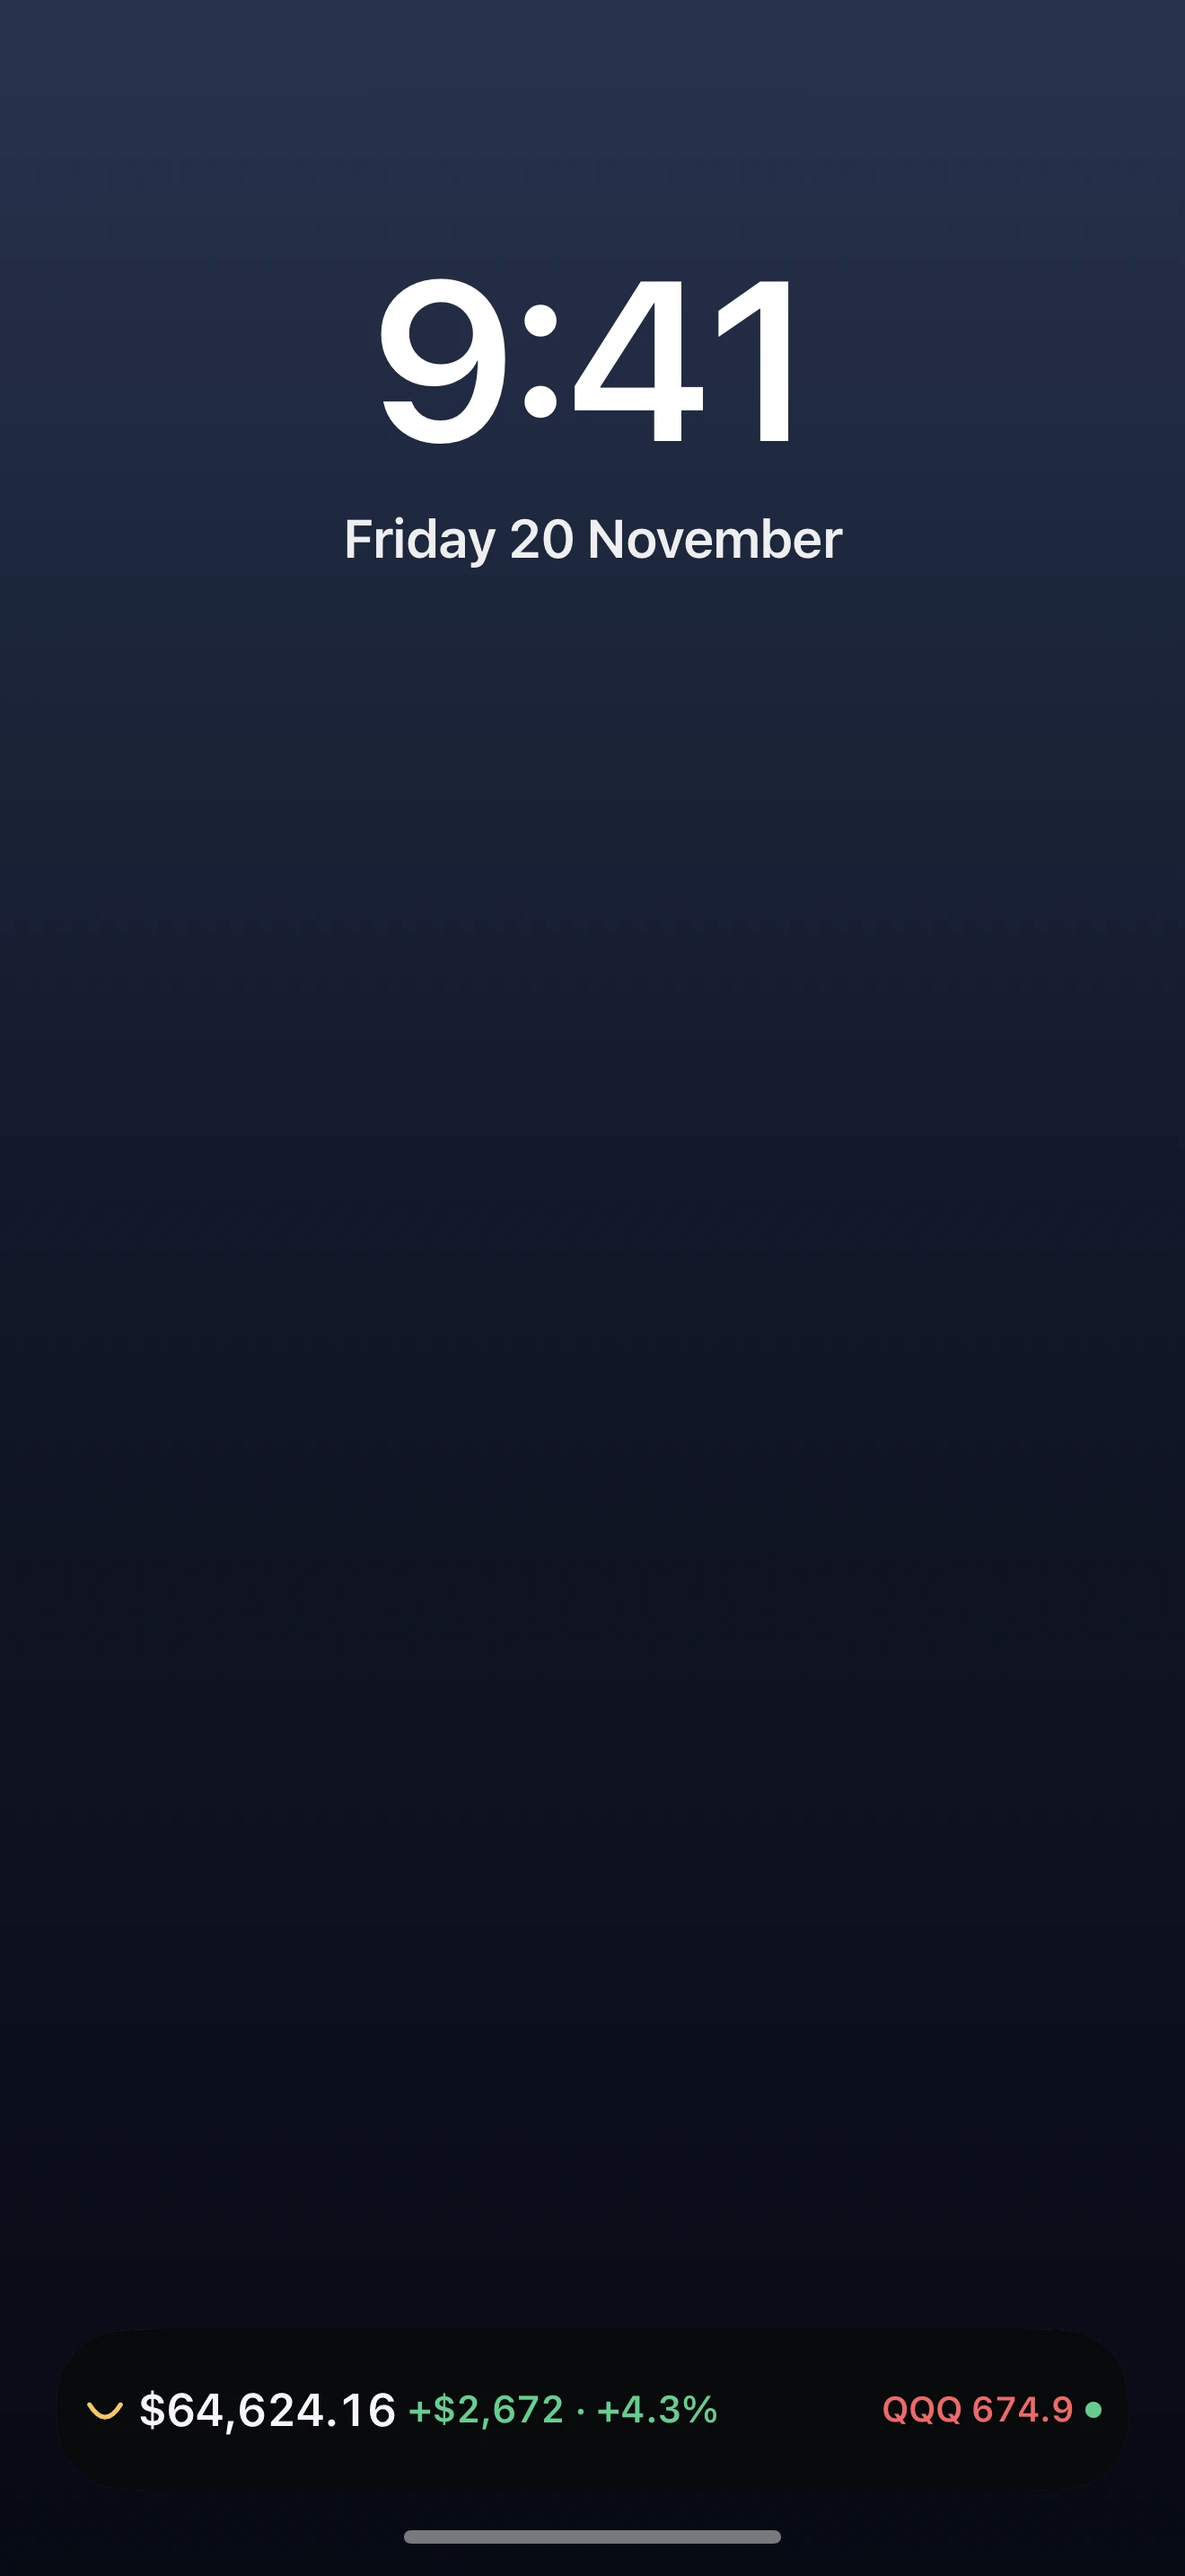
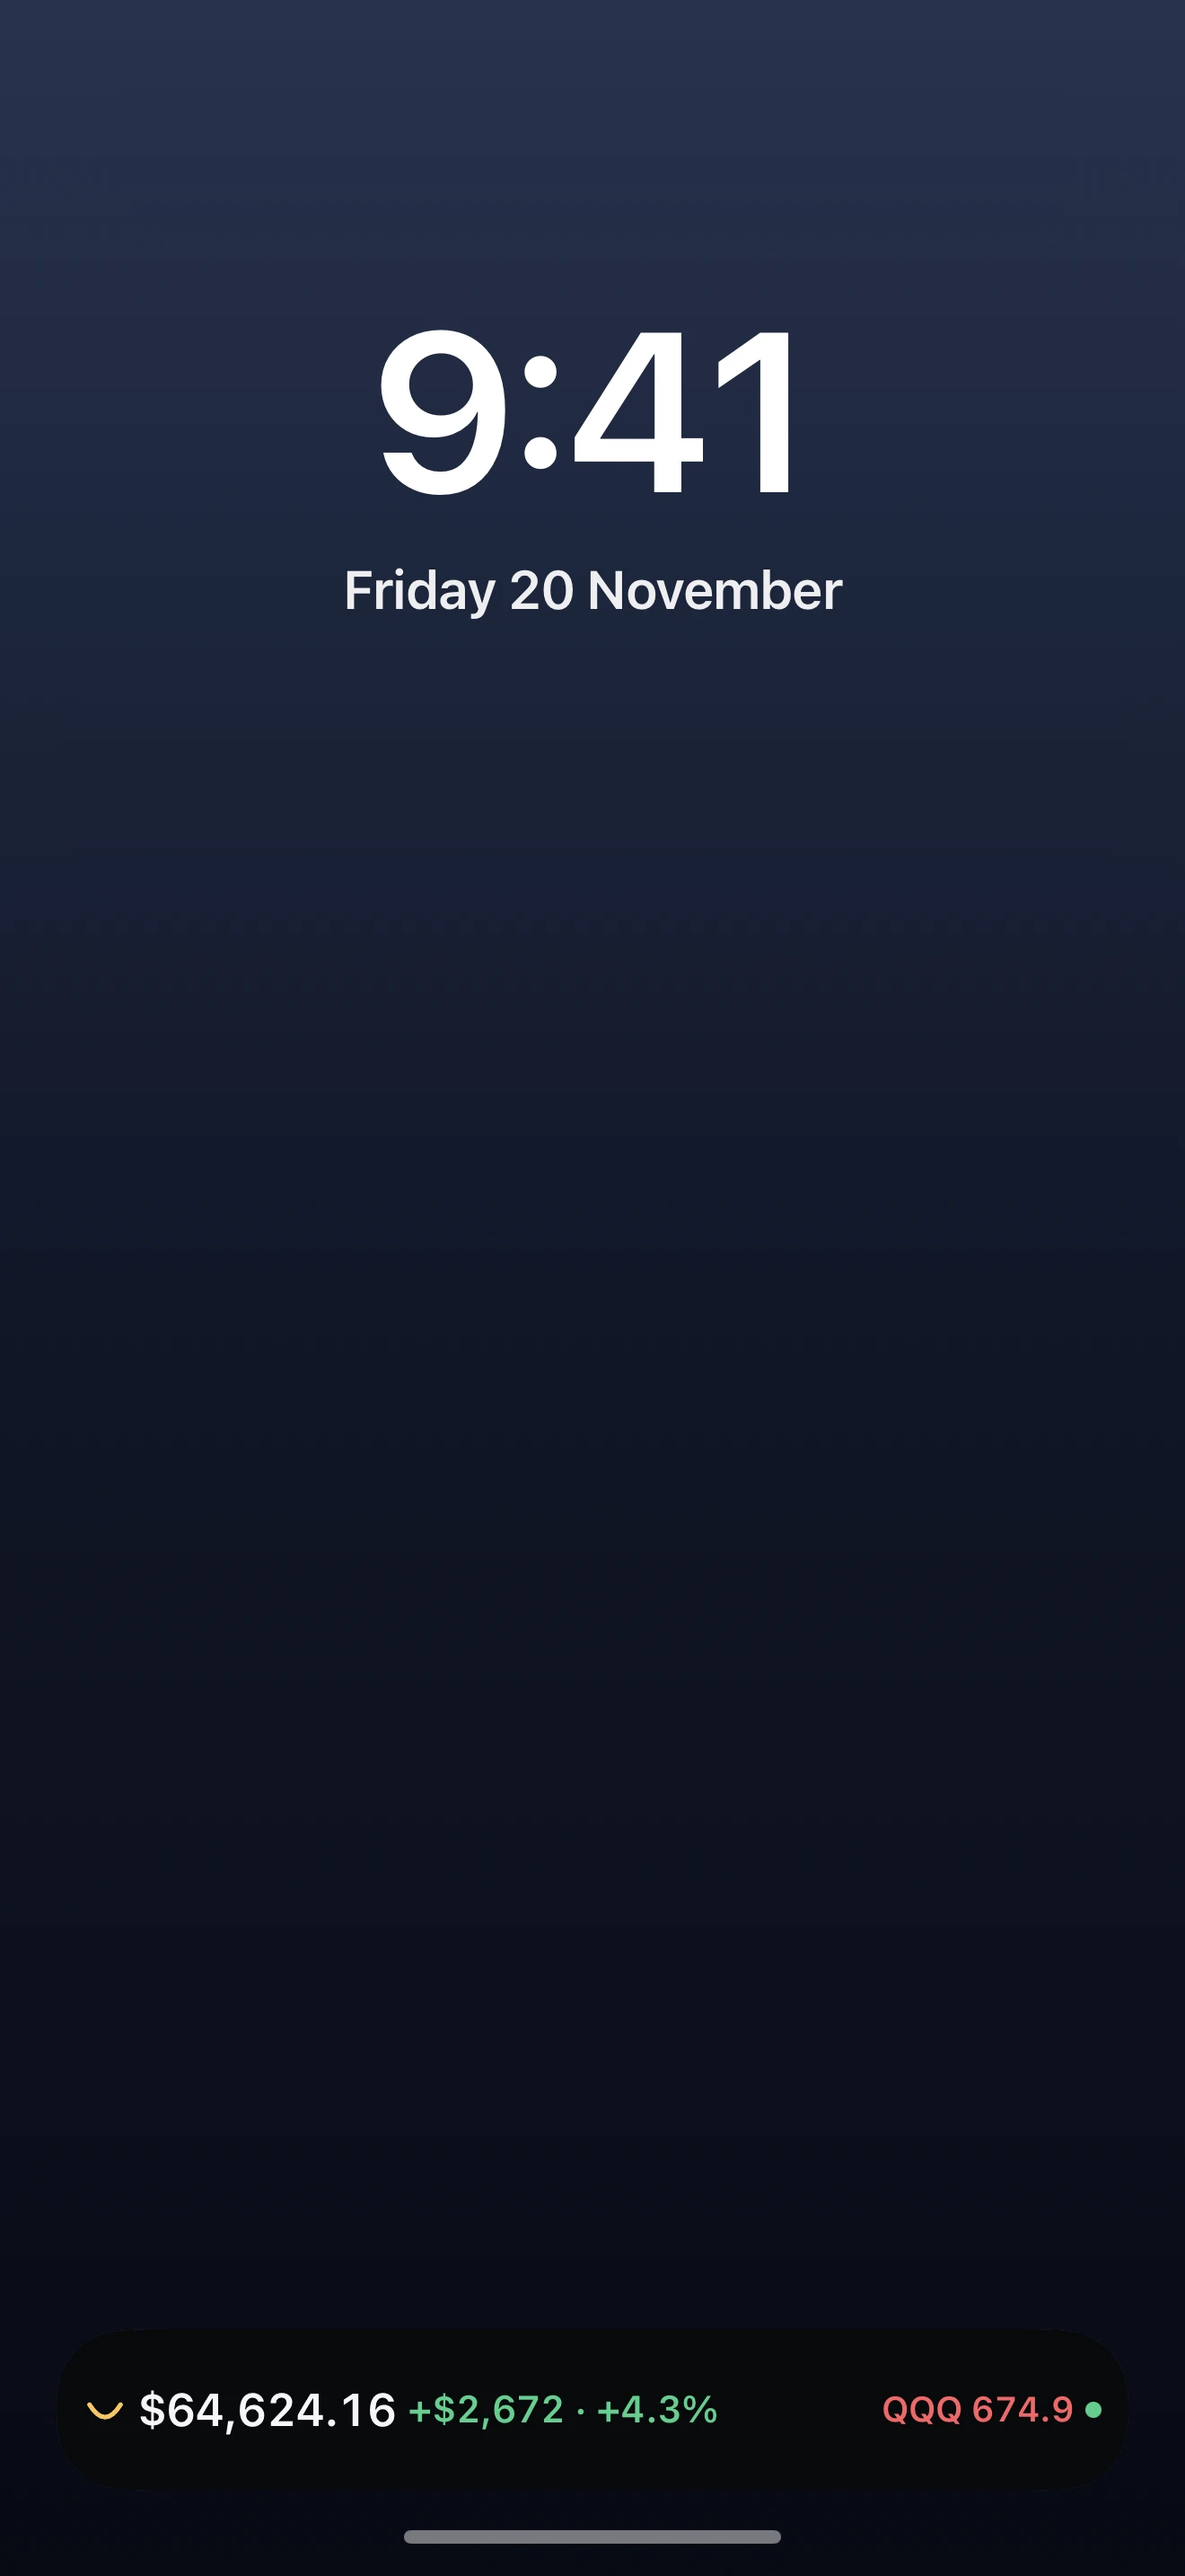
[skip ci] Regenerate 08-lock-compact webp, hero stack polish, §06 capture

Changed region(s): [[0.2795, 0.0931, 0.7144, 0.2483]]

diff --git a/public/styles.css b/public/styles.css
@@ -775,6 +775,10 @@ a {
   --device-width: 300px;
 }
 
+#lock-screen .shots-two .shots-lock-phone {
+  --device-width: 304px;
+}
+
 .shots-two .shot-label {
   display: block;
   margin-top: 14px;
@@ -1050,10 +1054,6 @@ a {
 }
 
 @media (min-width: 901px) {
-  .hero-grid {
-    align-items: end;
-  }
-
   .hero-copy {
     padding-top: 12px;
     padding-bottom: 12px;
@@ -1080,6 +1080,15 @@ a {
 
 /* Intermediate desktop: stage too narrow for 3-up fixed bezels */
 @media (min-width: 901px) and (max-width: 1380px) {
+  .hero-grid {
+    align-items: start;
+  }
+
+  .hero-copy {
+    align-self: start;
+    padding-top: 8px;
+  }
+
   .hero-stage {
     grid-template-columns: minmax(0, 1fr) minmax(0, 1fr);
     grid-template-rows: auto auto;
@@ -1097,28 +1106,42 @@ a {
 @media (min-width: 901px) and (max-width: 1100px) {
   .hero-grid {
     grid-template-columns: minmax(0, 1fr);
+    grid-template-rows: auto auto;
     gap: clamp(28px, 4vw, 40px);
-    align-items: center;
+    align-items: stretch;
   }
 
   .hero-copy {
+    grid-column: 1;
+    grid-row: 1;
     max-width: 640px;
-    margin-inline: auto;
-    text-align: center;
-  }
-
-  .lead {
-    margin-inline: auto;
-  }
-
-  .chips {
-    justify-content: center;
+    width: 100%;
+    margin-inline: 0;
+    text-align: left;
+    padding-top: 16px;
   }
 
   .hero-stage {
+    grid-column: 1;
+    grid-row: 2;
     width: 100%;
     max-width: min(920px, 100%);
     margin-inline: auto;
+  }
+
+  .lead {
+    margin-inline: 0;
+  }
+
+  .chips {
+    justify-content: flex-start;
+    flex-wrap: nowrap;
+  }
+}
+
+@media (min-width: 1101px) {
+  .hero-grid {
+    align-items: end;
   }
 }
 

diff --git a/public/index.html b/public/index.html
@@ -22,7 +22,7 @@
   <link rel="icon" href="assets/favicon.png" type="image/png" sizes="64x64">
   <link rel="icon" href="assets/favicon-32.png" type="image/png" sizes="32x32">
   <link rel="apple-touch-icon" href="assets/favicon.png">
-  <link rel="stylesheet" href="styles.css?v=20261122i">
+  <link rel="stylesheet" href="styles.css?v=20261122j">
 </head>
 <body>
   <header class="site-nav">
@@ -292,9 +292,9 @@
         </div>
         <div class="row-media shots-two">
           <div class="shots-two-item">
-            <figure class="device device--iphone-16-pro-max device--section device--section-dual">
+            <figure class="device device--iphone-16-pro-max device--section shots-lock-phone">
               <div class="device-screen">
-                <img src="assets/08-lock-compact.webp" width="1320" height="2868" loading="lazy" alt="Lock Screen Live Activity in Compact layout on the demo book.">
+                <img src="assets/08-lock-compact.webp" width="1320" height="2868" loading="lazy" decoding="async" alt="Lock Screen Live Activity in Compact layout on the demo book.">
               </div>
               <picture>
                 <source type="image/webp" srcset="assets/bezels/iphone-16-pro-max-natural.webp">
